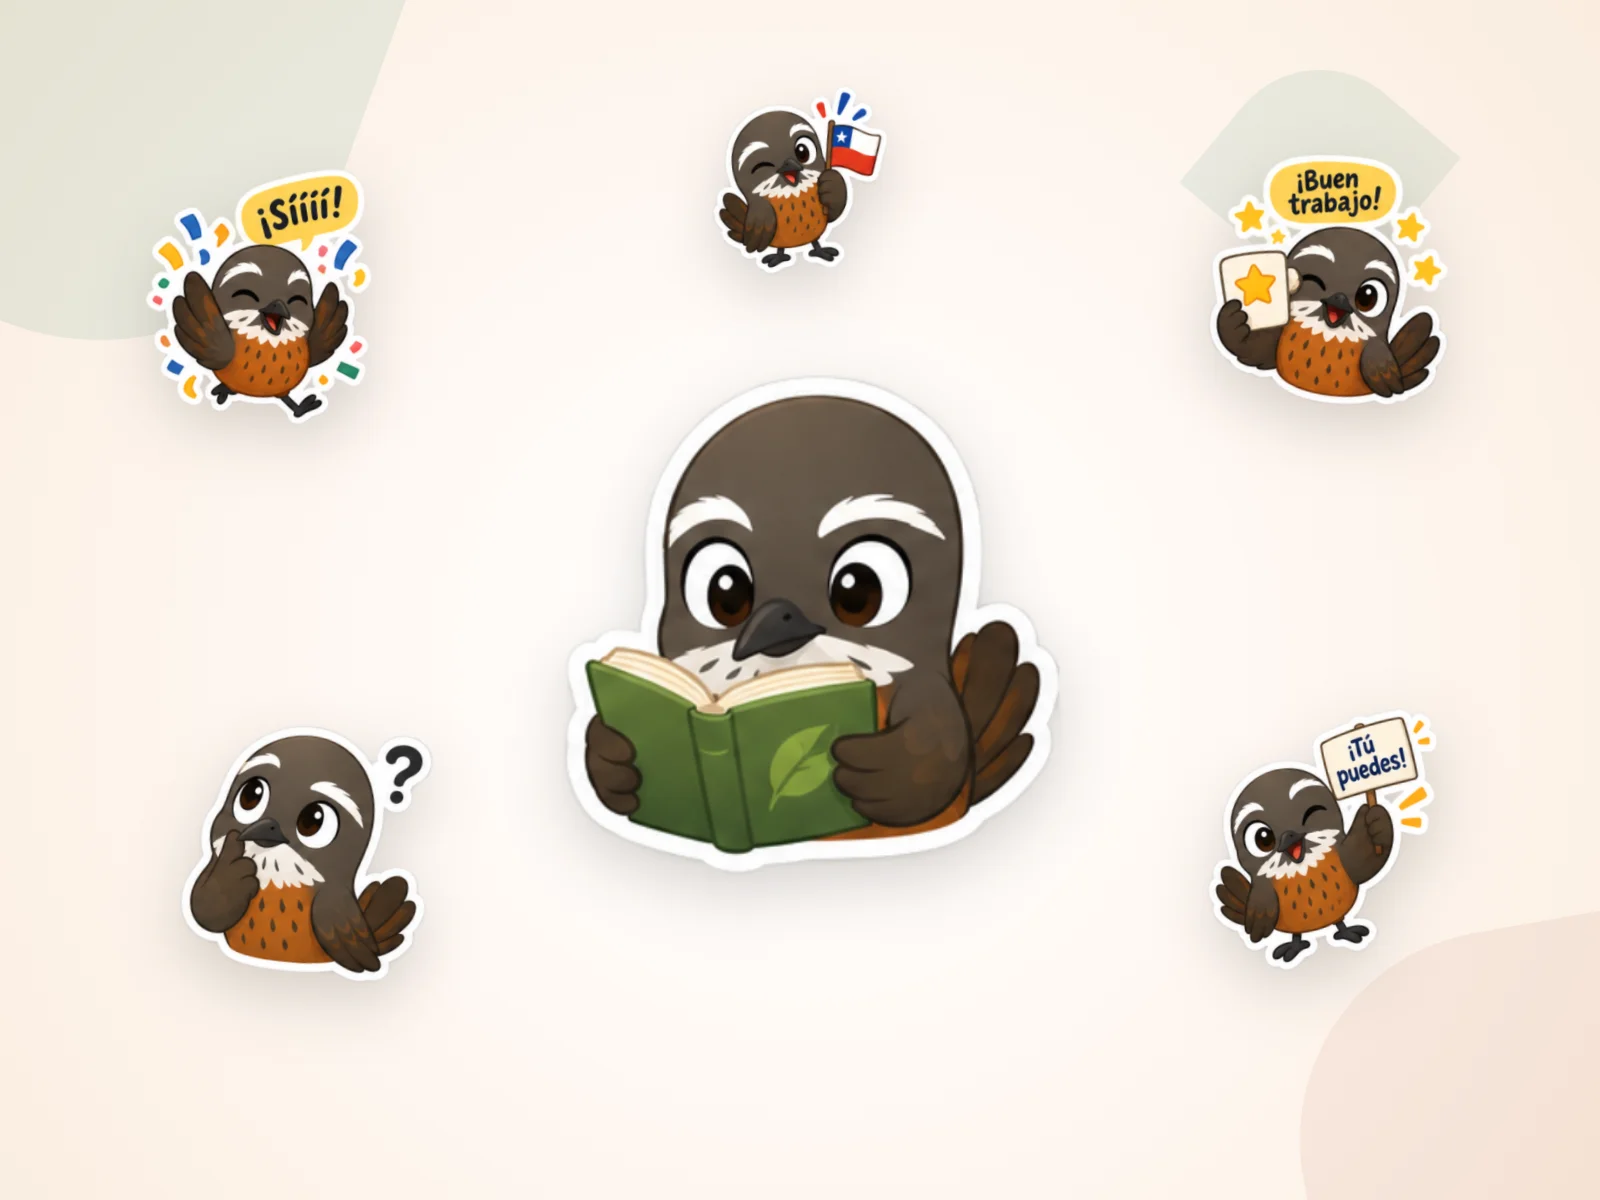
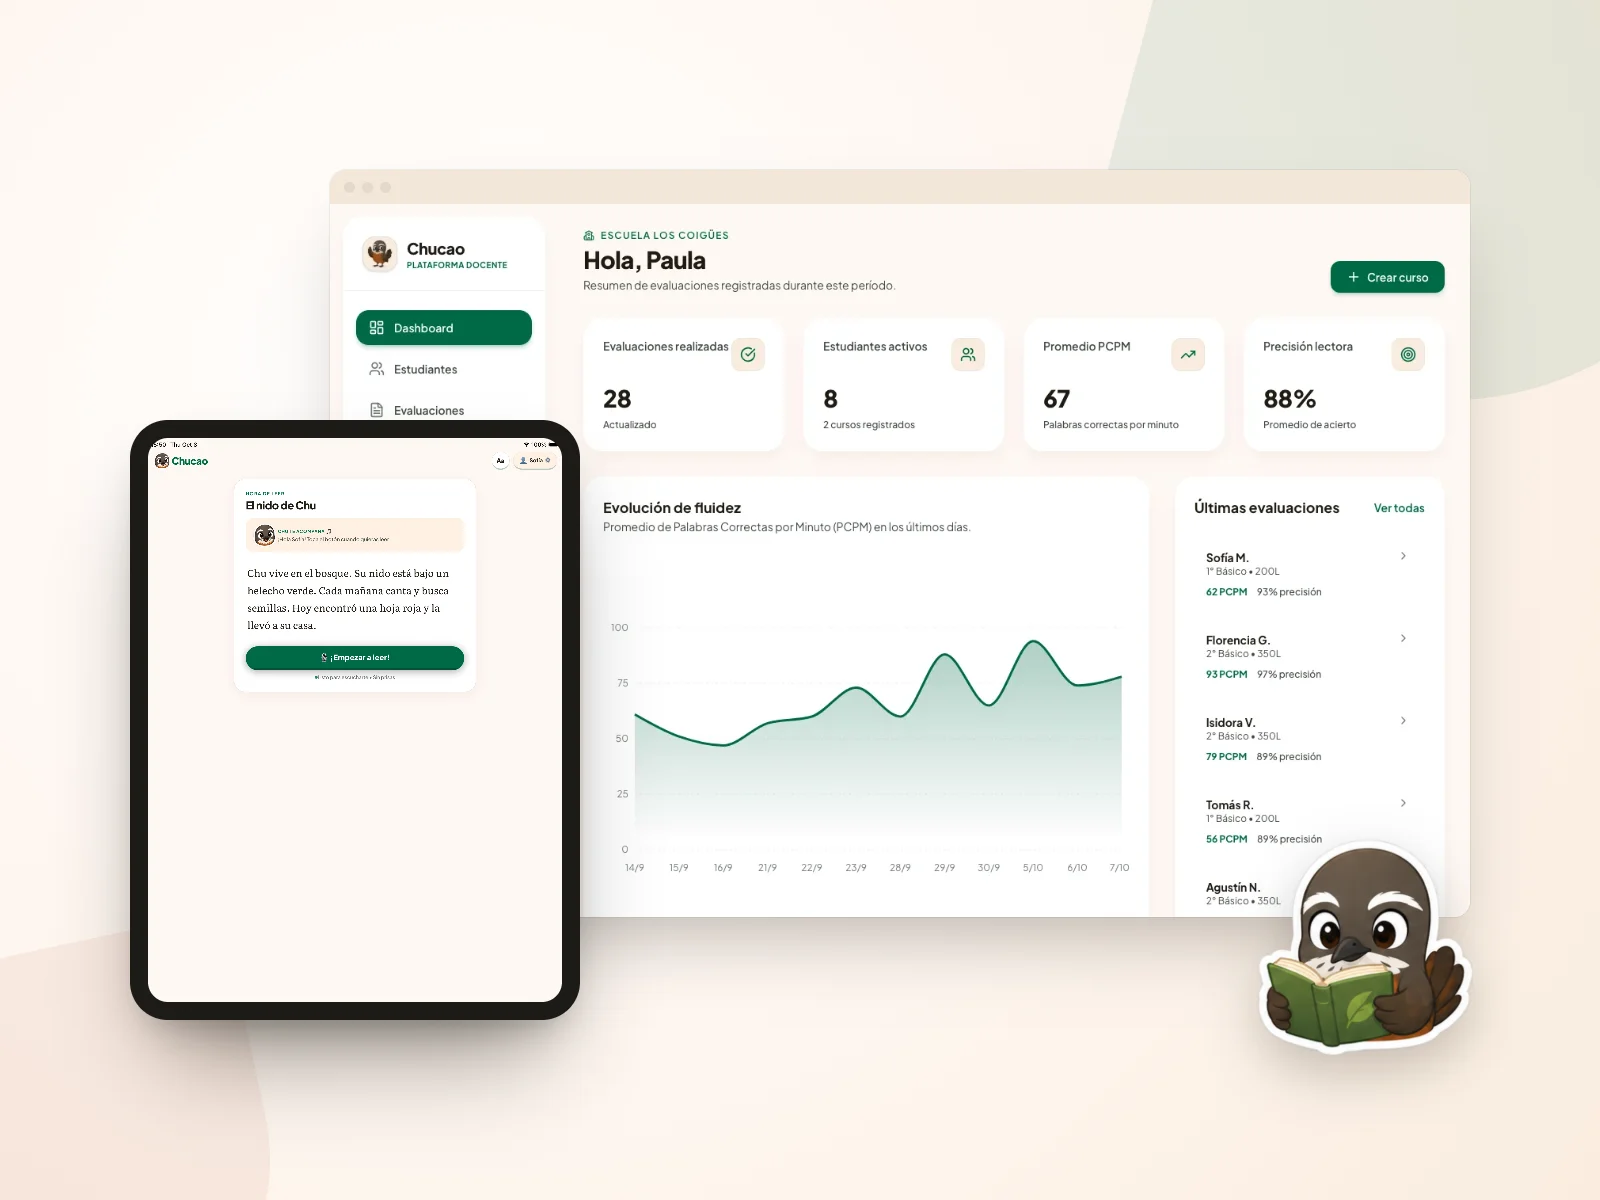
Nueva portada de Chucao con capturas reales
Composición en HTML con el dashboard docente y la tablet del estudiante
(capturas del demo) y Chu como acento, en la línea de las portadas de Radio,
Quiniela Engine y AgileRadar.

diff --git a/docs/es/case-studies/ai-reader/index.html b/docs/es/case-studies/ai-reader/index.html
@@ -225,7 +225,7 @@
     <div class="case-study-content">
       <!-- Hero Section -->
       <div class="case-study-hero">
-        <img fetchpriority="high" src="/portfolio/assets/img/gallery-img/ai_reader/cover-ai_reader.webp" alt="Chu, la mascota de Chucao, leyendo un libro junto a sus estados de ánimo" class="case-study-hero-image">
+        <img fetchpriority="high" src="/portfolio/assets/img/gallery-img/ai_reader/cover-ai_reader.webp" alt="Tablet con un cuento de Chucao frente al dashboard docente, con Chu leyendo" class="case-study-hero-image">
       </div>
 
       <!-- Project Facts (if available): rol, estudio, plataformas, estado -->

diff --git a/docs/en/case-studies/ai-reader/index.html b/docs/en/case-studies/ai-reader/index.html
@@ -225,7 +225,7 @@
     <div class="case-study-content">
       <!-- Hero Section -->
       <div class="case-study-hero">
-        <img fetchpriority="high" src="/portfolio/assets/img/gallery-img/ai_reader/cover-ai_reader.webp" alt="Chu, Chucao's mascot, reading a book surrounded by its moods" class="case-study-hero-image">
+        <img fetchpriority="high" src="/portfolio/assets/img/gallery-img/ai_reader/cover-ai_reader.webp" alt="Tablet showing a Chucao story in front of the teacher dashboard, with Chu reading" class="case-study-hero-image">
       </div>
 
       <!-- Project Facts (if available): rol, estudio, plataformas, estado -->
